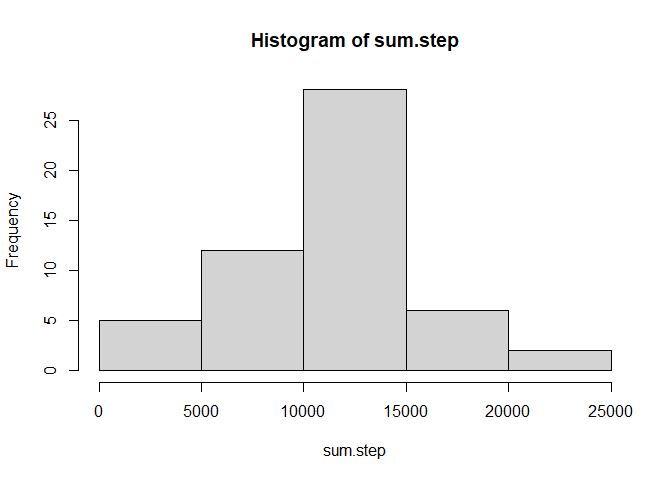
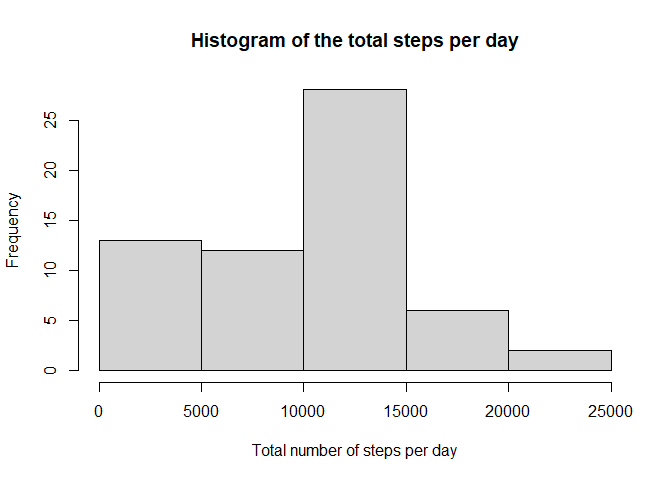
update

Changed region(s): [[0.125, 0.5, 0.3125, 0.6875], [0.2812, 0.0625, 0.7812, 0.125], [0.375, 0.9062, 0.6875, 0.9688]]

diff --git a/PA1_template.html b/PA1_template.html
@@ -374,22 +374,55 @@ activity$date &lt;- as.Date(activity$date)</code></pre>
 </div>
 <div id="what-is-mean-total-number-of-steps-taken-per-day" class="section level2">
 <h2>What is mean total number of steps taken per day?</h2>
-<pre class="r"><code>sum.step &lt;- tapply(activity$steps, activity$date, sum)
-sum.step &lt;- sum.step[!is.na(sum.step)]
-hist(sum.step)</code></pre>
[1 lines of base64/hex data omitted]
-<pre class="r"><code>summary(sum.step)</code></pre>
+<p>Histogram of the total number of steps per day</p>
+<pre class="r"><code>total.step &lt;- tapply(activity$steps, activity$date, sum, na.rm=TRUE)
+hist(total.step, xlab=&#39;Total number of steps per day&#39;, main=&#39;Histogram of the total number of steps per day&#39;)</code></pre>
[1 lines of base64/hex data omitted]
+<p>Mean and Median of the total number of steps per day</p>
+<pre class="r"><code>summary(total.step)</code></pre>
 <pre><code>##    Min. 1st Qu.  Median    Mean 3rd Qu.    Max. 
-##      41    8841   10765   10766   13294   21194</code></pre>
+##       0    6778   10395    9354   12811   21194</code></pre>
 </div>
 <div id="what-is-the-average-daily-activity-pattern" class="section level2">
 <h2>What is the average daily activity pattern?</h2>
+<p>Plot the daily average number of steps</p>
+<pre class="r"><code>int.step &lt;- tapply(activity$steps, activity$interval, mean, na.rm=TRUE)
+plot(names(int.step), int.step, type=&#39;l&#39;, xlab=&#39;Interval&#39;, ylab=&#39;Number of steps&#39;, main=&#39;Daily average number of steps&#39;)</code></pre>
[1 lines of base64/hex data omitted]
+<p>Interval time which contains the maximum number of steps</p>
+<pre class="r"><code>names(int.step[int.step == max(int.step)])</code></pre>
+<pre><code>## [1] &quot;835&quot;</code></pre>
 </div>
 <div id="imputing-missing-values" class="section level2">
 <h2>Imputing missing values</h2>
+<p>Number of missing values</p>
+<pre class="r"><code>nrow(activity[is.na(activity$steps), ])</code></pre>
+<pre><code>## [1] 2304</code></pre>
+<p>Fill missing value with the mean for that 5-minute interval</p>
+<pre class="r"><code>missing &lt;- activity[is.na(activity$steps), ]
+avg.steps &lt;- sapply(missing$interval, function(x){ int.step[names(int.step) == x]})
+activity[is.na(activity$steps), &#39;steps&#39;] &lt;- avg.steps</code></pre>
+<p>Recheck number of missing values</p>
+<pre class="r"><code>nrow(activity[is.na(activity$steps), ])</code></pre>
+<pre><code>## [1] 0</code></pre>
+<p>Histogram of the total number of steps per day after imputing missing data</p>
+<pre class="r"><code>total.step &lt;- tapply(activity$steps, activity$date, sum)
+hist(total.step, xlab=&#39;Total number of steps per day&#39;, main=&#39;Histogram of the total number of steps per day&#39;)</code></pre>
[1 lines of base64/hex data omitted]
+<p>Mean and Median of the total number of steps taken per day after imputing missing data</p>
+<pre class="r"><code>summary(total.step)</code></pre>
+<pre><code>##    Min. 1st Qu.  Median    Mean 3rd Qu.    Max. 
+##      41    9819   10766   10766   12811   21194</code></pre>
 </div>
 <div id="are-there-differences-in-activity-patterns-between-weekdays-and-weekends" class="section level2">
 <h2>Are there differences in activity patterns between weekdays and weekends?</h2>
+<p>Create factor variable indicating ‘weekday’ or ‘weekend’</p>
+<pre class="r"><code>activity$day &lt;- factor(ifelse(weekdays(activity$date) %in% c(&#39;Saturday&#39;, &#39;Sunday&#39;), &#39;weekend&#39;, &#39;weekday&#39;))</code></pre>
+<p>Plot the daily average number of steps</p>
+<pre class="r"><code>library(lattice)
+int.step &lt;- aggregate(x=activity$steps, by=list(interval=activity$interval, day=activity$day), FUN = mean)
+xyplot(int.step$x ~ int.step$interval | int.step$day, type=&#39;l&#39;, xlab=&#39;Interval&#39;, ylab=&#39;Number of steps&#39;, layout=c(1,2))</code></pre>
[1 lines of base64/hex data omitted]
 </div>
 
 

diff --git a/PA1_template.md b/PA1_template.md
@@ -15,31 +15,109 @@ activity$date <- as.Date(activity$date)
 ```
 
 ## What is mean total number of steps taken per day?
+Histogram of the total number of steps per day
 
 ```r
-sum.step <- tapply(activity$steps, activity$date, sum)
-sum.step <- sum.step[!is.na(sum.step)]
-hist(sum.step)
+total.step <- tapply(activity$steps, activity$date, sum, na.rm=TRUE)
+hist(total.step, xlab='Total number of steps per day', main='Histogram of the total number of steps per day')
 ```
 
-![](PA1_template_files/figure-html/unnamed-chunk-2-1.png)<!-- -->
+![](PA1_template_files/figure-html/unnamed-chunk-3-1.png)<!-- -->
 
+Mean and Median of the total number of steps per day
 
 ```r
-summary(sum.step)
+summary(total.step)
 ```
 
 ```
 ##    Min. 1st Qu.  Median    Mean 3rd Qu.    Max. 
-##      41    8841   10765   10766   13294   21194
+##       0    6778   10395    9354   12811   21194
 ```
 
 ## What is the average daily activity pattern?
+Plot the daily average number of steps
 
+```r
+int.step <- tapply(activity$steps, activity$interval, mean, na.rm=TRUE)
+plot(names(int.step), int.step, type='l', xlab='Interval', ylab='Number of steps', main='Daily average number of steps')
+```
+
+![](PA1_template_files/figure-html/unnamed-chunk-5-1.png)<!-- -->
+
+Interval time which contains the maximum number of steps
+
+```r
+names(int.step[int.step == max(int.step)])
+```
+
+```
+## [1] "835"
+```
 
 ## Imputing missing values
 
+Number of missing values
 
+```r
+nrow(activity[is.na(activity$steps), ])
+```
+
+```
+## [1] 2304
+```
+
+Fill missing value with the mean for that 5-minute interval
+
+```r
+missing <- activity[is.na(activity$steps), ]
+avg.steps <- sapply(missing$interval, function(x){ int.step[names(int.step) == x]})
+activity[is.na(activity$steps), 'steps'] <- avg.steps
+```
+
+Recheck number of missing values
+
+```r
+nrow(activity[is.na(activity$steps), ])
+```
+
+```
+## [1] 0
+```
+
+Histogram of the total number of steps per day after imputing missing data
+
+```r
+total.step <- tapply(activity$steps, activity$date, sum)
+hist(total.step, xlab='Total number of steps per day', main='Histogram of the total number of steps per day')
+```
+
+![](PA1_template_files/figure-html/unnamed-chunk-10-1.png)<!-- -->
+
+Mean and Median of the total number of steps taken per day after imputing missing data
+
+```r
+summary(total.step)
+```
+
+```
+##    Min. 1st Qu.  Median    Mean 3rd Qu.    Max. 
+##      41    9819   10766   10766   12811   21194
+```
 
 ## Are there differences in activity patterns between weekdays and weekends?
+Create factor variable indicating 'weekday' or 'weekend'
 
+```r
+activity$day <- factor(ifelse(weekdays(activity$date) %in% c('Saturday', 'Sunday'), 'weekend', 'weekday'))
+```
+
+Plot the daily average number of steps
+
+```r
+library(lattice)
+int.step <- aggregate(x=activity$steps, by=list(interval=activity$interval, day=activity$day), FUN = mean)
+xyplot(int.step$x ~ int.step$interval | int.step$day, type='l', xlab='Interval', ylab='Number of steps', layout=c(1,2))
+```
+
+![](PA1_template_files/figure-html/unnamed-chunk-13-1.png)<!-- -->
